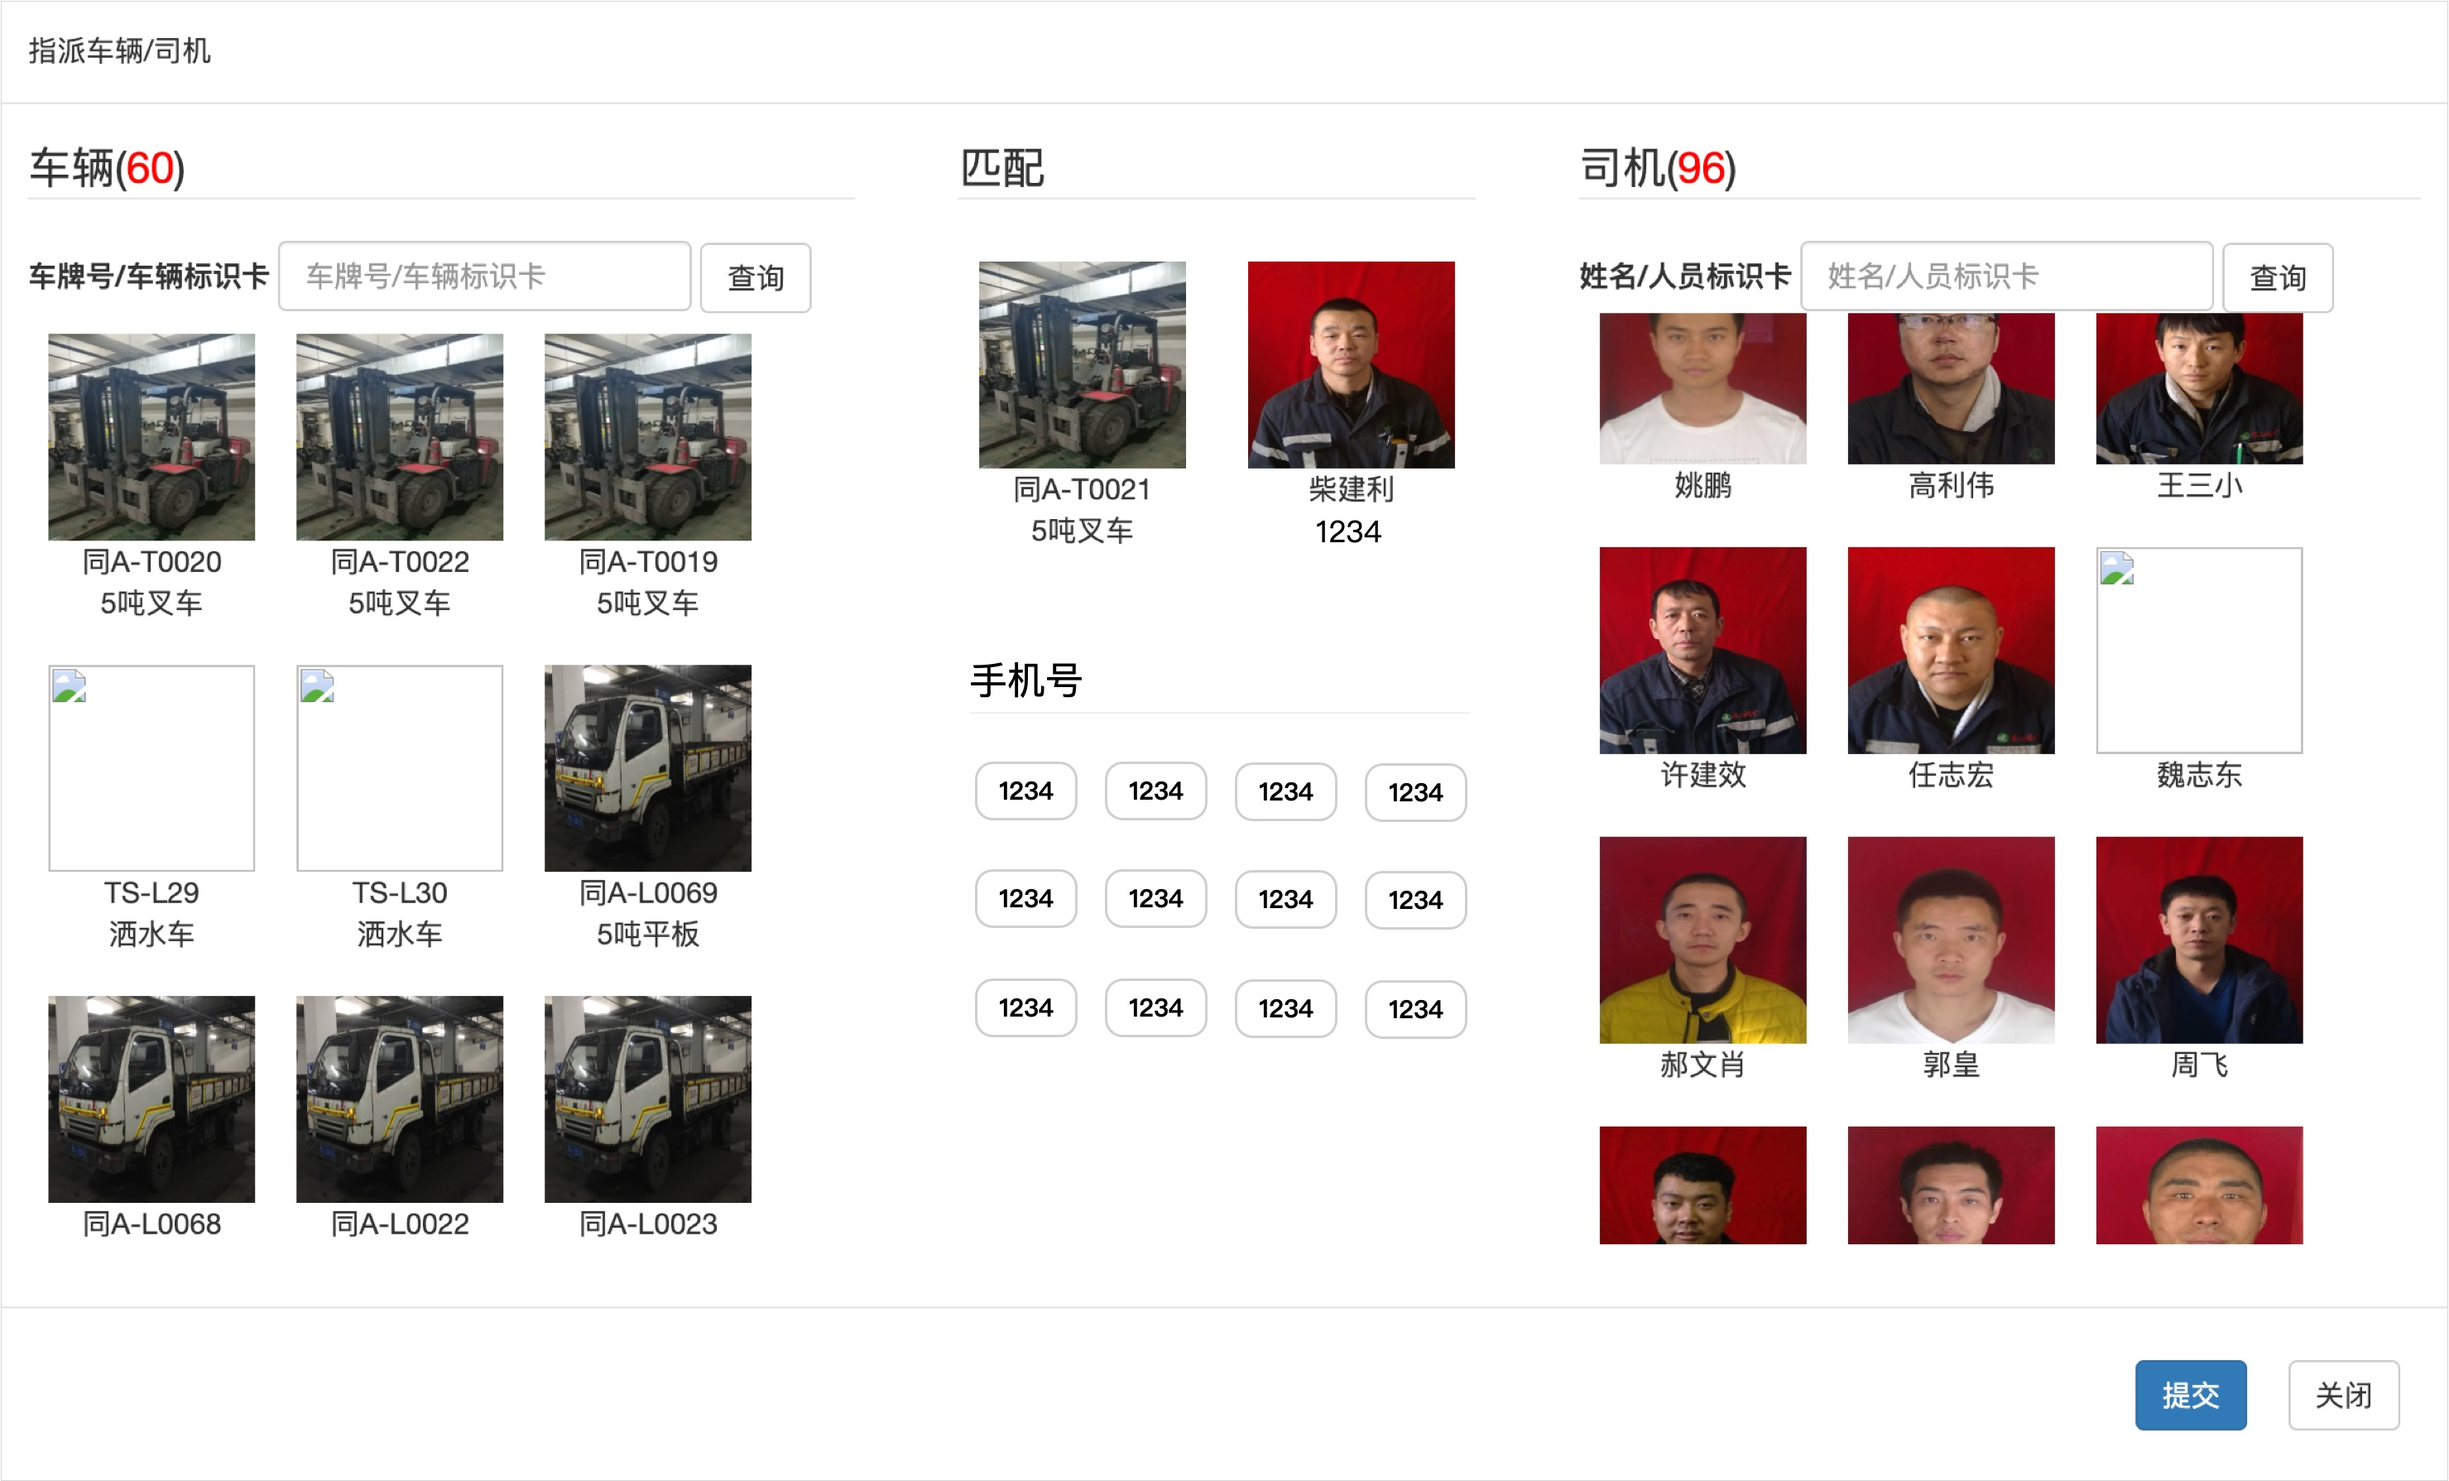
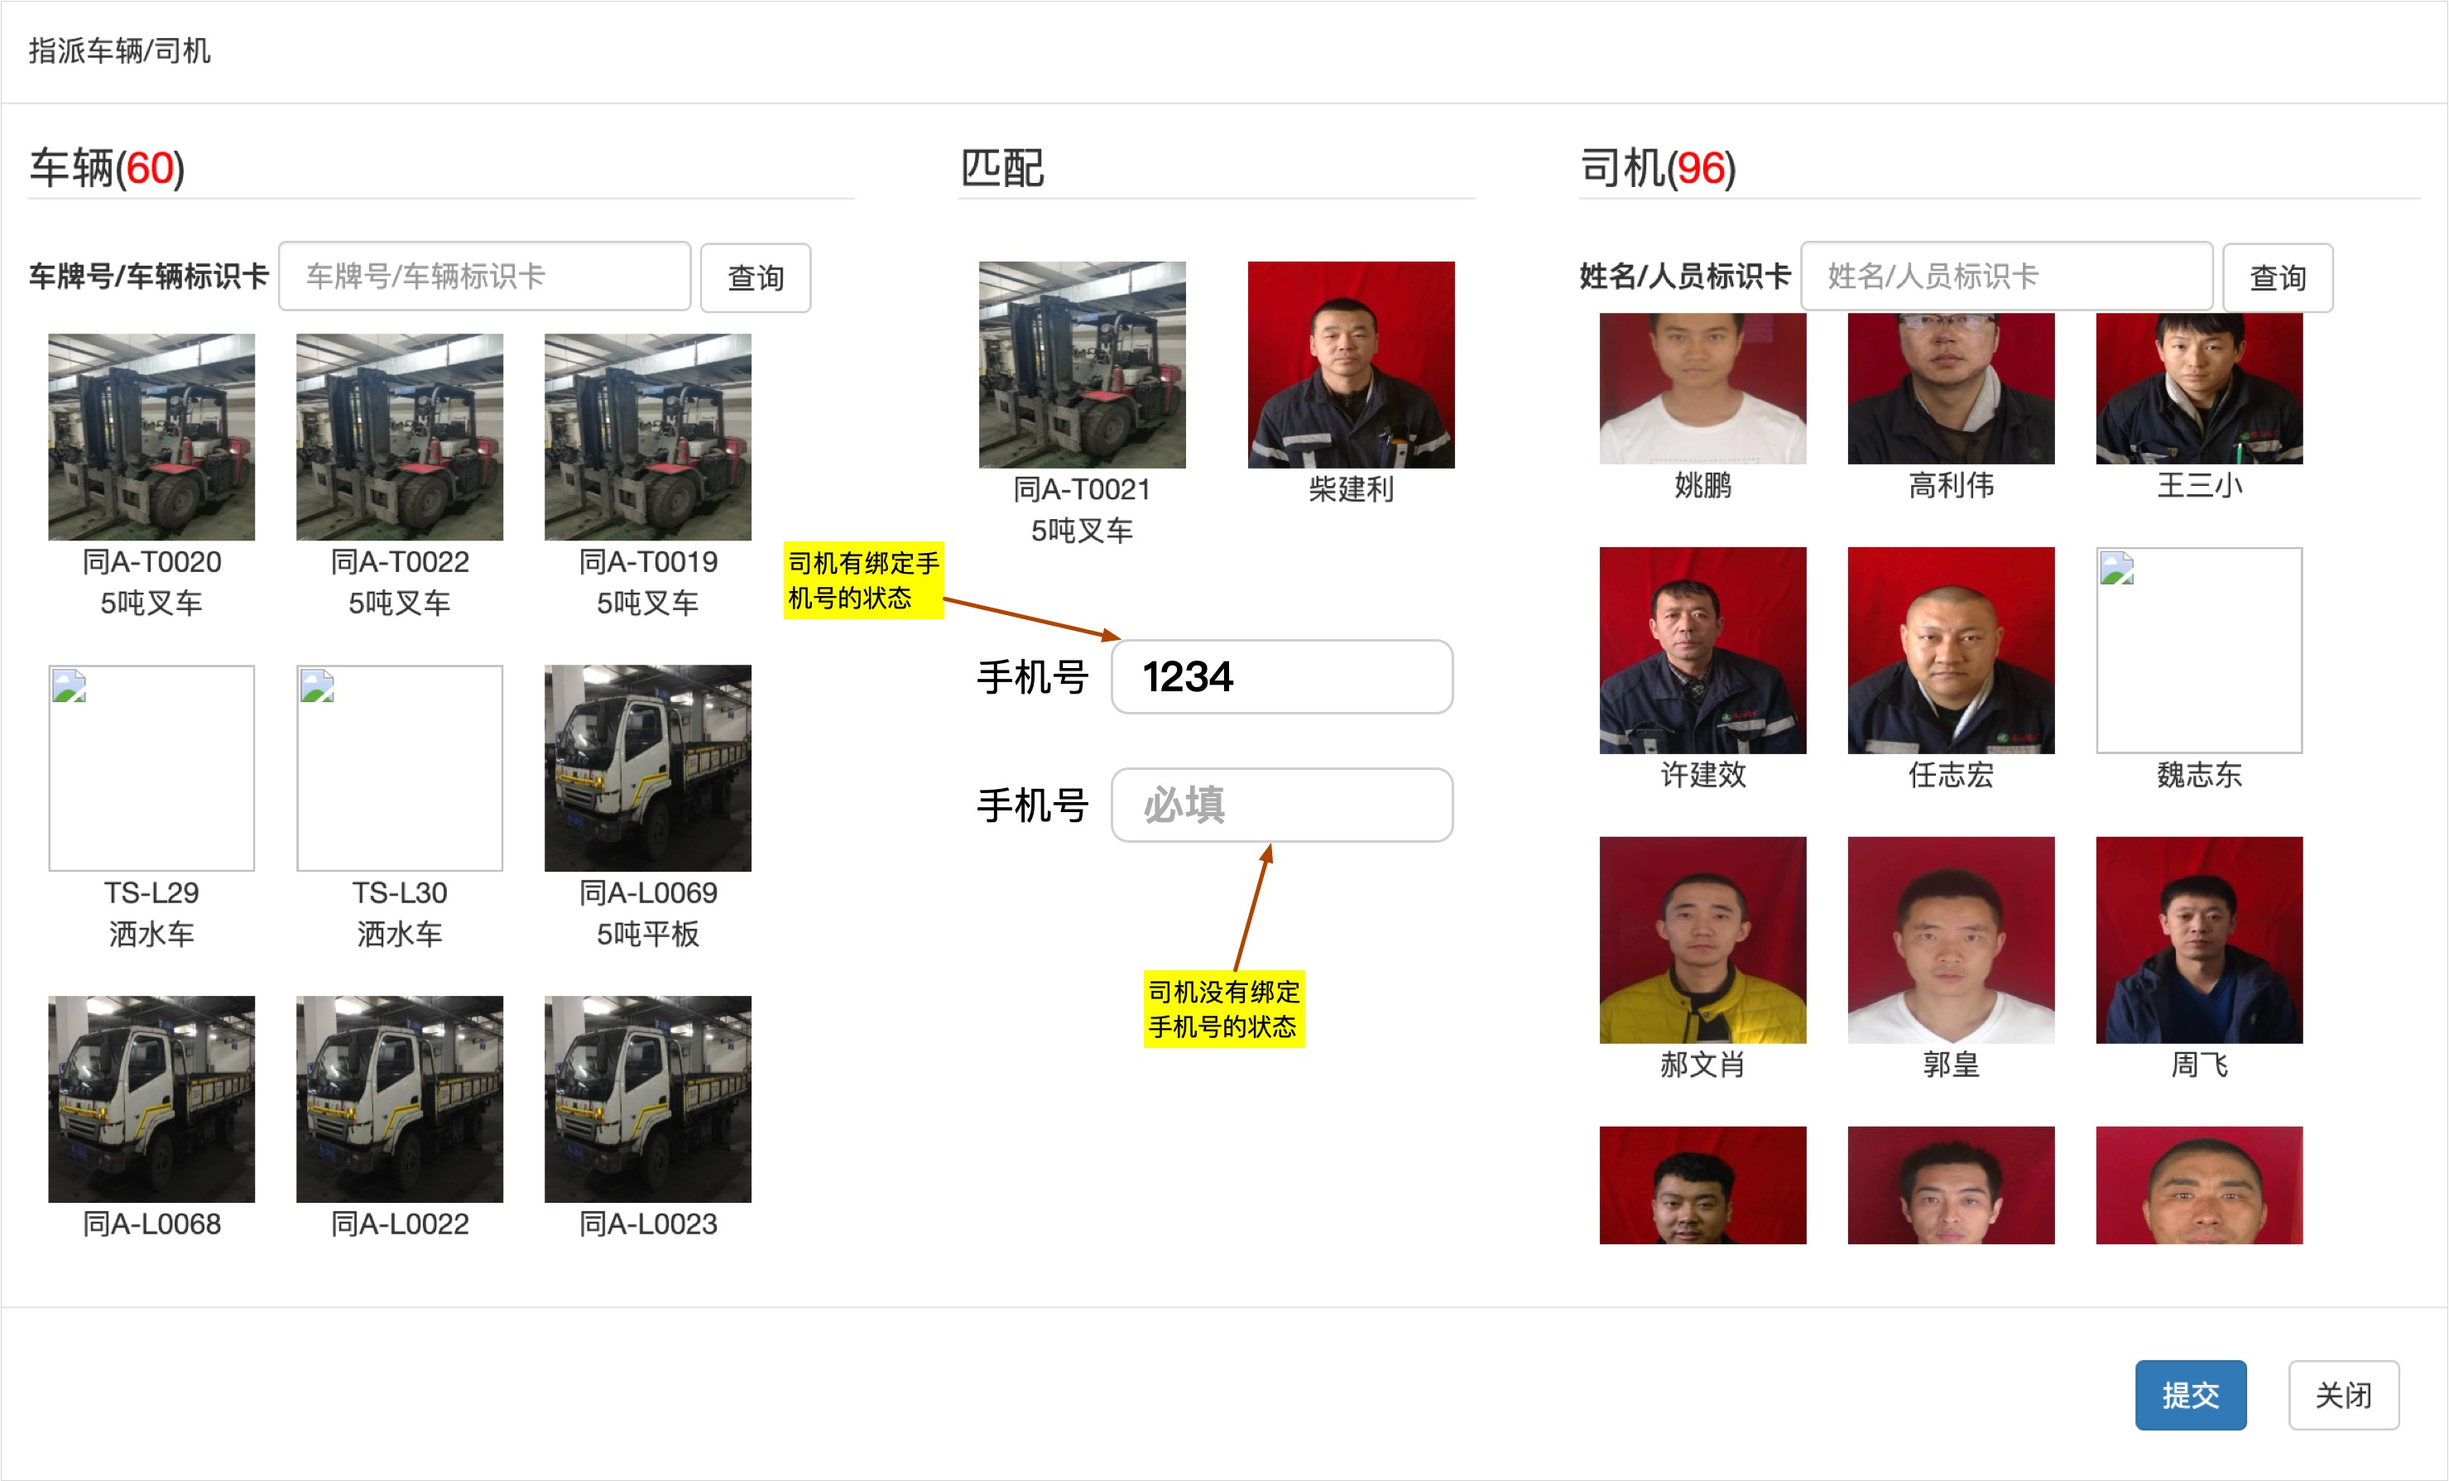
Site updated: 2019-07-10 18:18:07

diff --git a/2019/07/07/transportation190707/index.html b/2019/07/07/transportation190707/index.html
@@ -94,22 +94,22 @@
 
 
 
-<meta name="description" content="服务端增加功能  派车时增加手机号功能 统计一下现有手机号数量( 65个 )没有手机号不能提交派车没有绑定手机号的司机选中后显示手机号列表已经绑定手机号的司机选中后不显示手机号列表，点击头像后显示手机号列表可以临时更换手机号执行中更改司机的逻辑同派车逻辑，默认不显示手机号列表，点击头像后可以临时更换手机号    手机号管理后台（可以开放给执行车队） 不用与司机匹配手机号实现CRUD手机号唯一手机号">
+<meta name="description" content="服务端增加功能  派车时增加手机号功能 统计一下现有手机号数量( 65个 )没有手机号不能提交派车已经绑定手机号：输入框显示手机号没有绑定手机号：输入框显示必填执行中更改司机的逻辑同派车逻辑，默认显示手机号，可以更换手机号提交派单后手机号自动插入手机后台，记录手机号使用次数    手机号管理后台（可以开放给执行车队） 不用与司机匹配手机号实现CRUD手机号唯一增加手机号使用次数增加威龙使用次数 塔">
 <meta name="keywords" content="辅助运输">
 <meta property="og:type" content="article">
 <meta property="og:title" content="辅助运输190707">
 <meta property="og:url" content="http://yoursite.com/2019/07/07/transportation190707/index.html">
 <meta property="og:site_name" content="瑞华科技">
-<meta property="og:description" content="服务端增加功能  派车时增加手机号功能 统计一下现有手机号数量( 65个 )没有手机号不能提交派车没有绑定手机号的司机选中后显示手机号列表已经绑定手机号的司机选中后不显示手机号列表，点击头像后显示手机号列表可以临时更换手机号执行中更改司机的逻辑同派车逻辑，默认不显示手机号列表，点击头像后可以临时更换手机号    手机号管理后台（可以开放给执行车队） 不用与司机匹配手机号实现CRUD手机号唯一手机号">
+<meta property="og:description" content="服务端增加功能  派车时增加手机号功能 统计一下现有手机号数量( 65个 )没有手机号不能提交派车已经绑定手机号：输入框显示手机号没有绑定手机号：输入框显示必填执行中更改司机的逻辑同派车逻辑，默认显示手机号，可以更换手机号提交派单后手机号自动插入手机后台，记录手机号使用次数    手机号管理后台（可以开放给执行车队） 不用与司机匹配手机号实现CRUD手机号唯一增加手机号使用次数增加威龙使用次数 塔">
 <meta property="og:locale" content="zh-Hans">
 <meta property="og:image" content="http://yoursite.com/2019/07/07/transportation190707/liucheng.jpg">
 <meta property="og:image" content="http://yoursite.com/2019/07/07/transportation190707/filter.jpg">
 <meta property="og:image" content="http://yoursite.com/2019/07/07/transportation190707/QC.jpg">
 <meta property="og:image" content="http://yoursite.com/2019/07/07/transportation190707/QC.jpg">
-<meta property="og:updated_time" content="2019-07-09T16:56:15.613Z">
+<meta property="og:updated_time" content="2019-07-10T10:11:24.212Z">
 <meta name="twitter:card" content="summary">
 <meta name="twitter:title" content="辅助运输190707">
-<meta name="twitter:description" content="服务端增加功能  派车时增加手机号功能 统计一下现有手机号数量( 65个 )没有手机号不能提交派车没有绑定手机号的司机选中后显示手机号列表已经绑定手机号的司机选中后不显示手机号列表，点击头像后显示手机号列表可以临时更换手机号执行中更改司机的逻辑同派车逻辑，默认不显示手机号列表，点击头像后可以临时更换手机号    手机号管理后台（可以开放给执行车队） 不用与司机匹配手机号实现CRUD手机号唯一手机号">
+<meta name="twitter:description" content="服务端增加功能  派车时增加手机号功能 统计一下现有手机号数量( 65个 )没有手机号不能提交派车已经绑定手机号：输入框显示手机号没有绑定手机号：输入框显示必填执行中更改司机的逻辑同派车逻辑，默认显示手机号，可以更换手机号提交派单后手机号自动插入手机后台，记录手机号使用次数    手机号管理后台（可以开放给执行车队） 不用与司机匹配手机号实现CRUD手机号唯一增加手机号使用次数增加威龙使用次数 塔">
 <meta name="twitter:image" content="http://yoursite.com/2019/07/07/transportation190707/liucheng.jpg">
 
 
@@ -369,11 +369,11 @@
       
         <h3 id="服务端"><a href="#服务端" class="headerlink" title="服务端"></a>服务端</h3><h4 id="增加功能"><a href="#增加功能" class="headerlink" title="增加功能"></a>增加功能</h4><ul>
 <li style="list-style: none"><input type="checkbox"> 派车时增加手机号功能<blockquote>
-<p><del>统计一下现有手机号数量</del>( <font color="red"><strong>65个</strong></font> )<br>没有手机号不能提交派车<br>没有绑定手机号的司机选中后显示<code>手机号</code>列表<br>已经绑定手机号的司机选中后不显示<code>手机号</code>列表，点击头像后显示<code>手机号</code>列表可以<font color="red"><strong>临时更换</strong></font>手机号<br><code>执行中</code>更改司机的逻辑同<code>派车</code>逻辑，默认不显示<code>手机号</code>列表，点击头像后可以<font color="red"><strong>临时更换</strong></font>手机号<br><img src="liucheng.jpg" alt></p>
+<p><del>统计一下现有手机号数量</del>( <font color="red"><strong>65个</strong></font> )<br>没有手机号不能提交派车<br>已经绑定手机号：<code>输入框</code>显示<code>手机号</code><br>没有绑定手机号：<code>输入框</code>显示<code>必填</code><br><code>执行中</code>更改司机的逻辑同<code>派车</code>逻辑，默认显示<code>手机号</code>，可以更换手机号<br>提交派单后<code>手机号</code>自动插入<code>手机后台</code>，记录手机号使用次数<br><img src="liucheng.jpg" alt></p>
 </blockquote>
 </li>
 <li style="list-style: none"><input type="checkbox"> 手机号管理后台（可以开放给执行车队）<blockquote>
-<p>不用与司机匹配<br>手机号实现CRUD<br>手机号唯一<br>手机号修改后可以自动生效<br><code>使用中</code>的手机号不能删除</p>
+<p>不用与司机匹配<br>手机号实现CRUD<br>手机号唯一<br>增加手机号使用次数<br>增加<code>威龙使用次数</code> <code>塔通使用次数</code> <code>生产车队使用次数</code>字段</p>
 </blockquote>
 </li>
 <li style="list-style: none"><input type="checkbox"> 地图车辆信息增加司机手机号 (丹平)<blockquote>

diff --git a/index.html b/index.html
@@ -365,7 +365,10 @@
           
           服务端增加功能
  派车时增加手机号功能
-统计一下现有手机号数量( 65个 )没有手机号不能提交派车没有绑定手机号的司机选中后显示手机号列表已经绑定手机号的司机选中后不显示手机号列表，点击头像后显示手机号列表可以临时更换手机号执行中更改司机的逻辑同派车逻辑，默认不显示手机号列表，点击头像后可以临时更换
+统计一下现有手机号数量( 65个 )没有手机号不能提交派车已经绑定手机号：输入框显示手机号没有绑定手机号：输入框显示必填执行中更改司机的逻辑同派车逻辑，默认显示手机号，可以更换手机号提交派单后手机号自动插入手机后台，记录手机号使用次数
+
+
+ 手机号管理后台（可
           ...
           <!--noindex-->
           <div class="post-button text-center">
